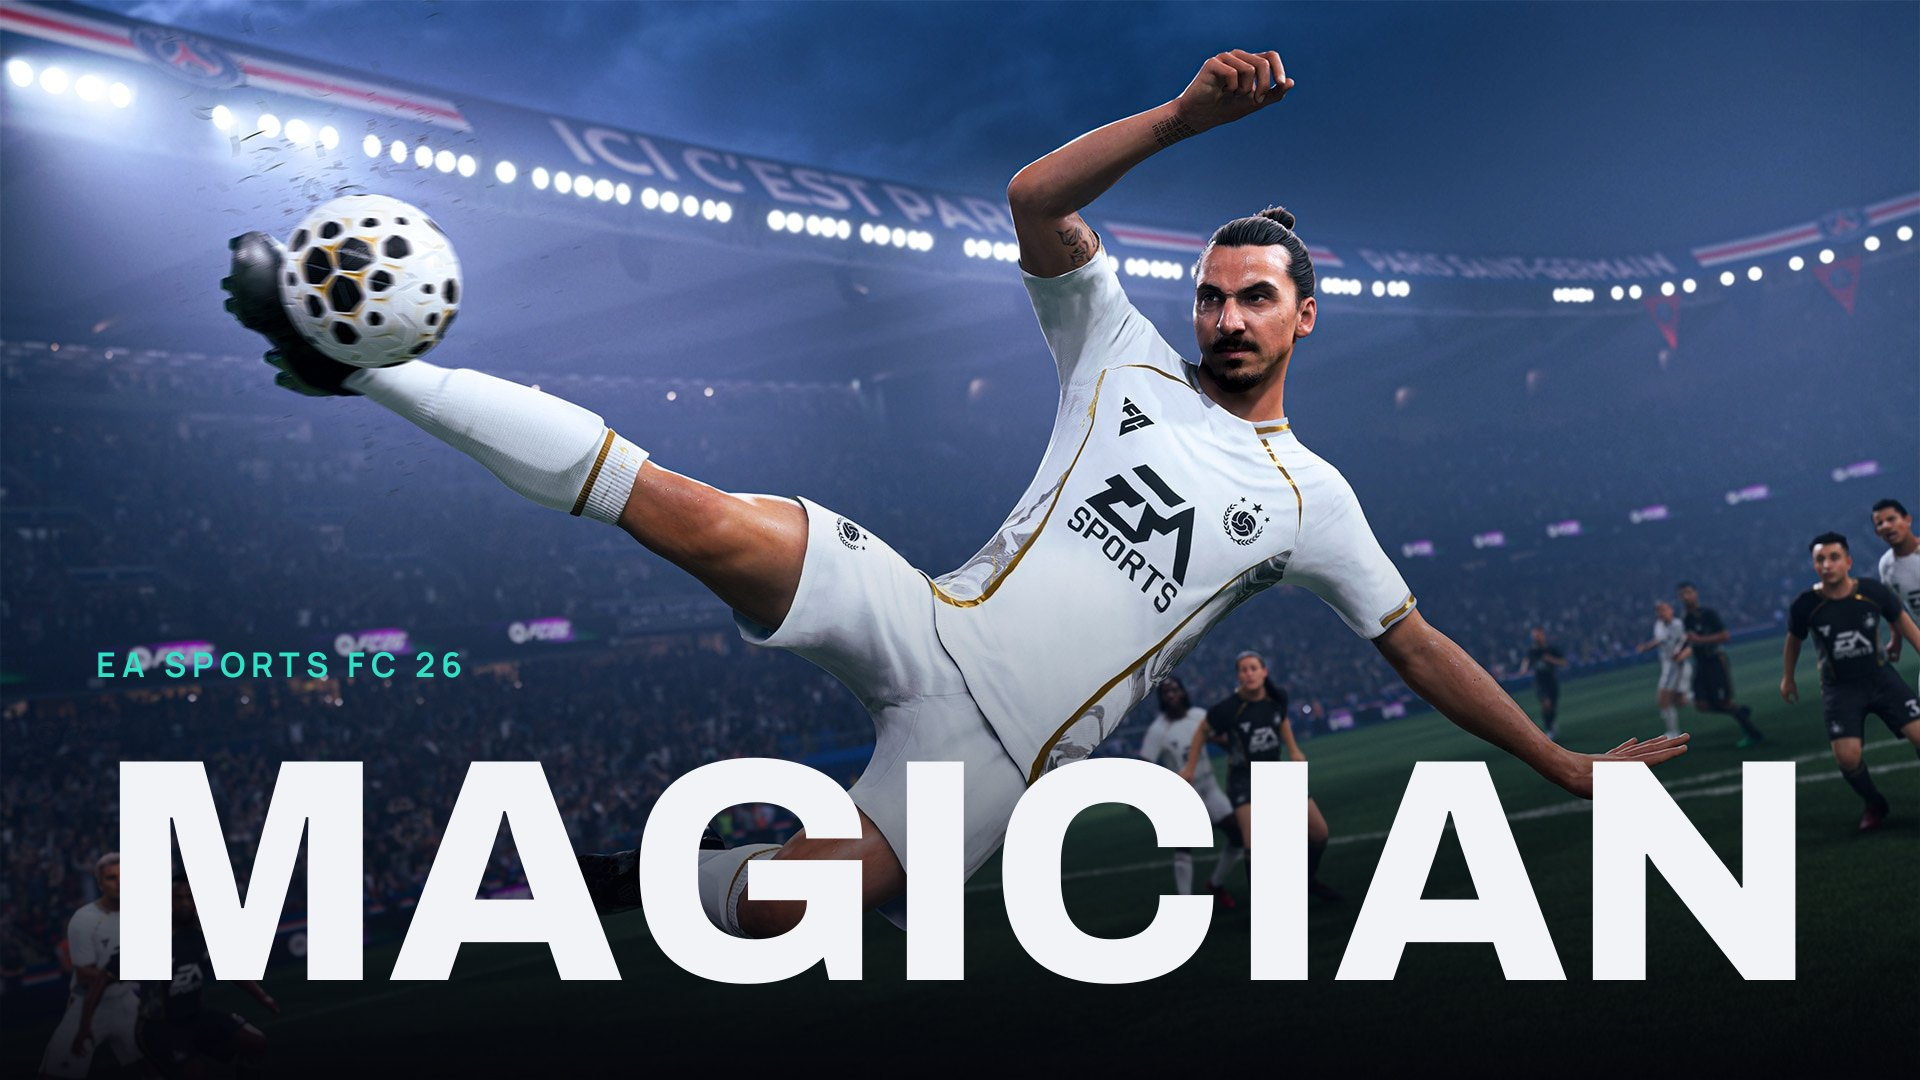
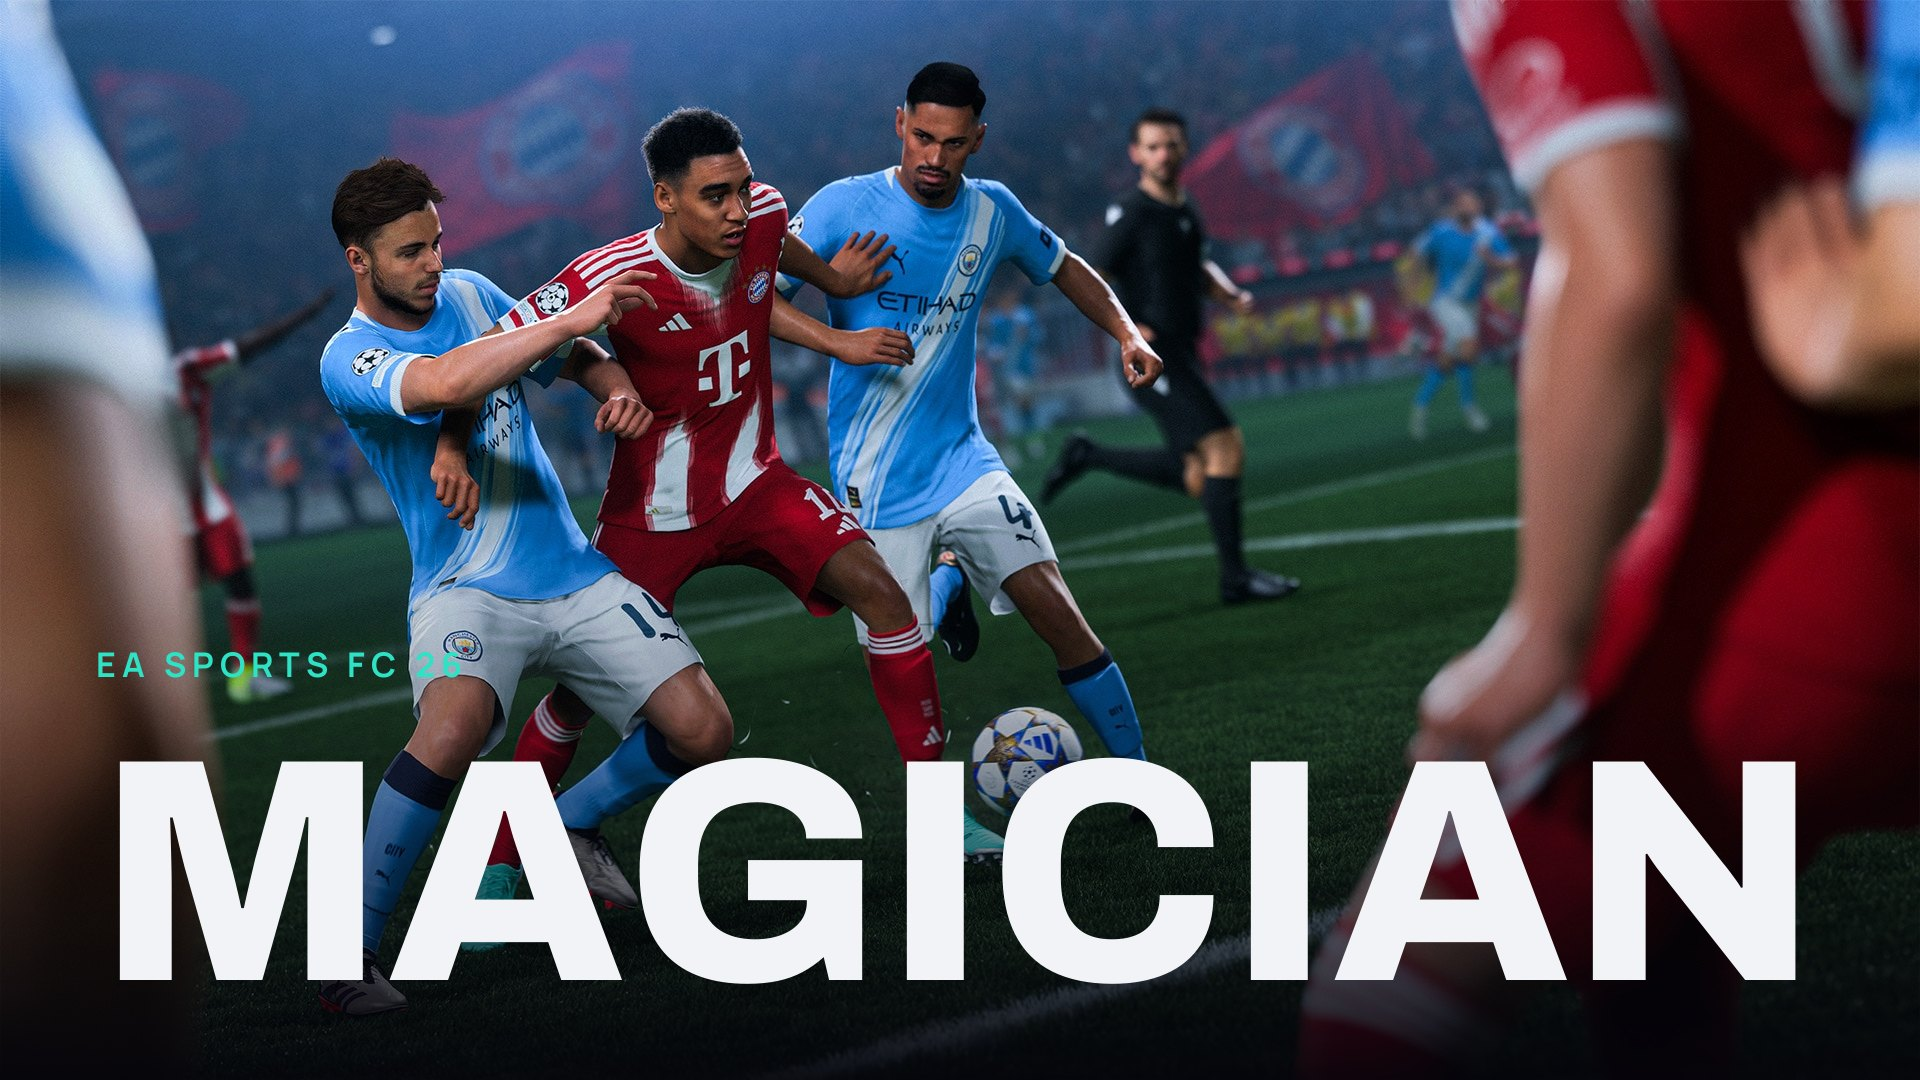
Spokes: per-archetype in-body art, and two art swaps
In-body: every spoke opened with the same shared image — the FC 26 studio key
art — so replacing the feature images left the dated poster as the first
thing inside the article. The theme doesn't render feature images on post
pages, which makes that figure the hero a reader actually sees.

spoke.mjs now points it at the archetype's OWN cover, so the article and its
share preview show the same picture. Regenerated and diffed against the
committed output before republishing: every spoke changed by exactly one
line, the img src and its alt. Nothing else moved.

Two art swaps, both the user's calls after seeing the set:

- magician takes the Musiala still despite being a forward. Musiala carrying
  through three defenders is what a Magician does, and it separates it from
  the other two forwards.
- finisher takes the FC 26 studio key art — the poster this set replaced —
  kept deliberately for one cover, where it reads as contrast rather than as
  the whole series. Its eyebrow is suppressed: that art carries its own EA
  SPORTS FC 26 lockup, so the eyebrow printed the same words twice a few
  centimetres apart. NO_EYEBROW exists for exactly that.

VERSION -v6 -> -v7 and all 13 reassigned, so every cover sits on one version
and the in-body URL can be derived rather than special-cased. spoke.mjs
carries COVER_VERSION with a note to bump both together.

Found while diffing, NOT fixed here: regenerating a2.html turned up "Pro
[…]

diff --git a/out/a2.html b/out/a2.html
@@ -139,7 +139,7 @@
 <div class="meta"><div><h5>Perks</h5><ul><li><strong>6th Sense</strong> — Shoot with back to goal in the attacking third to gain a short boost to Finishing, Balance, and Composure.</li><li><strong>Physical Shooter</strong> — Shield off an opponent, then shoot in the box for a boost to Strength, Shot Power, and Balance.</li></ul></div>
 <div><h5>Specializations</h5><ul><li><strong>Target+</strong> <span style="color:var(--muted);font-size:12px">Zlatan Ibrahimović</span></li><li><strong>Roamer</strong> <span style="color:var(--muted);font-size:12px">Francesco Totti</span></li><li><strong>Runner</strong> <span style="color:var(--muted);font-size:12px">Ronaldo</span></li></ul></div></div>
 </div>
-<p class="foot">Source: Pro Clubs Lobby catalog. Ratings are per-attribute caps averaged across each category.</p>
+<p class="foot">Source: Pro Clubs HQ catalog. Ratings are per-attribute caps averaged across each category.</p>
 <script>
 (function(){var R=document.querySelector('[data-hm27]');if(!R||R.dataset.on)return;R.dataset.on='1';
 var tip=document.createElement('div');tip.className='tip';R.appendChild(tip);

diff --git a/out/a20.html b/out/a20.html
@@ -372,7 +372,7 @@
 <figure class="a20c">
 <style>.a20c{margin:0 0 1.6em}.a20c img{width:100%;height:auto;border-radius:12px;display:block}
 .a20c figcaption{margin-top:8px;font-size:12.5px;color:#898781;font-family:system-ui,-apple-system,"Segoe UI",sans-serif}</style>
-<img src="https://proclubshq.com/blog/content/images/size/w1200/2026/08/feat-spokes.jpg" alt="Official EA SPORTS FC 26 cover art" loading="lazy" width="1200" height="675">
+<img src="https://proclubshq.com/blog/content/images/size/w1200/2026/08/feat-spoke-sweeper-keeper-v7.jpg" alt="Official EA SPORTS FC 26 art for the SWEEPER KEEPER archetype" loading="lazy" width="1200" height="675">
 <figcaption>EA SPORTS FC 26 — the game these builds live in.</figcaption>
 </figure>
 <!--kg-card-end: html-->

diff --git a/out/a19.html b/out/a19.html
@@ -372,7 +372,7 @@
 <figure class="a19c">
 <style>.a19c{margin:0 0 1.6em}.a19c img{width:100%;height:auto;border-radius:12px;display:block}
 .a19c figcaption{margin-top:8px;font-size:12.5px;color:#898781;font-family:system-ui,-apple-system,"Segoe UI",sans-serif}</style>
-<img src="https://proclubshq.com/blog/content/images/size/w1200/2026/08/feat-spokes.jpg" alt="Official EA SPORTS FC 26 cover art" loading="lazy" width="1200" height="675">
+<img src="https://proclubshq.com/blog/content/images/size/w1200/2026/08/feat-spoke-shot-stopper-v7.jpg" alt="Official EA SPORTS FC 26 art for the SHOT STOPPER archetype" loading="lazy" width="1200" height="675">
 <figcaption>EA SPORTS FC 26 — the game these builds live in.</figcaption>
 </figure>
 <!--kg-card-end: html-->

diff --git a/out/a21.html b/out/a21.html
@@ -372,7 +372,7 @@
 <figure class="a21c">
 <style>.a21c{margin:0 0 1.6em}.a21c img{width:100%;height:auto;border-radius:12px;display:block}
 .a21c figcaption{margin-top:8px;font-size:12.5px;color:#898781;font-family:system-ui,-apple-system,"Segoe UI",sans-serif}</style>
-<img src="https://proclubshq.com/blog/content/images/size/w1200/2026/08/feat-spokes.jpg" alt="Official EA SPORTS FC 26 cover art" loading="lazy" width="1200" height="675">
+<img src="https://proclubshq.com/blog/content/images/size/w1200/2026/08/feat-spoke-progressor-v7.jpg" alt="Official EA SPORTS FC 26 art for the PROGRESSOR archetype" loading="lazy" width="1200" height="675">
 <figcaption>EA SPORTS FC 26 — the game these builds live in.</figcaption>
 </figure>
 <!--kg-card-end: html-->

diff --git a/out/a18.html b/out/a18.html
@@ -372,7 +372,7 @@
 <figure class="a18c">
 <style>.a18c{margin:0 0 1.6em}.a18c img{width:100%;height:auto;border-radius:12px;display:block}
 .a18c figcaption{margin-top:8px;font-size:12.5px;color:#898781;font-family:system-ui,-apple-system,"Segoe UI",sans-serif}</style>
-<img src="https://proclubshq.com/blog/content/images/size/w1200/2026/08/feat-spokes.jpg" alt="Official EA SPORTS FC 26 cover art" loading="lazy" width="1200" height="675">
+<img src="https://proclubshq.com/blog/content/images/size/w1200/2026/08/feat-spoke-magician-v7.jpg" alt="Official EA SPORTS FC 26 art for the MAGICIAN archetype" loading="lazy" width="1200" height="675">
 <figcaption>EA SPORTS FC 26 — the game these builds live in.</figcaption>
 </figure>
 <!--kg-card-end: html-->

diff --git a/out/a24.html b/out/a24.html
@@ -372,7 +372,7 @@
 <figure class="a24c">
 <style>.a24c{margin:0 0 1.6em}.a24c img{width:100%;height:auto;border-radius:12px;display:block}
 .a24c figcaption{margin-top:8px;font-size:12.5px;color:#898781;font-family:system-ui,-apple-system,"Segoe UI",sans-serif}</style>
-<img src="https://proclubshq.com/blog/content/images/size/w1200/2026/08/feat-spokes.jpg" alt="Official EA SPORTS FC 26 cover art" loading="lazy" width="1200" height="675">
+<img src="https://proclubshq.com/blog/content/images/size/w1200/2026/08/feat-spoke-marauder-v7.jpg" alt="Official EA SPORTS FC 26 art for the MARAUDER archetype" loading="lazy" width="1200" height="675">
 <figcaption>EA SPORTS FC 26 — the game these builds live in.</figcaption>
 </figure>
 <!--kg-card-end: html-->

diff --git a/out/a25.html b/out/a25.html
@@ -372,7 +372,7 @@
 <figure class="a25c">
 <style>.a25c{margin:0 0 1.6em}.a25c img{width:100%;height:auto;border-radius:12px;display:block}
 .a25c figcaption{margin-top:8px;font-size:12.5px;color:#898781;font-family:system-ui,-apple-system,"Segoe UI",sans-serif}</style>
-<img src="https://proclubshq.com/blog/content/images/size/w1200/2026/08/feat-spokes.jpg" alt="Official EA SPORTS FC 26 cover art" loading="lazy" width="1200" height="675">
+<img src="https://proclubshq.com/blog/content/images/size/w1200/2026/08/feat-spoke-recycler-v7.jpg" alt="Official EA SPORTS FC 26 art for the RECYCLER archetype" loading="lazy" width="1200" height="675">
 <figcaption>EA SPORTS FC 26 — the game these builds live in.</figcaption>
 </figure>
 <!--kg-card-end: html-->

diff --git a/out/a29.html b/out/a29.html
@@ -372,7 +372,7 @@
 <figure class="a29c">
 <style>.a29c{margin:0 0 1.6em}.a29c img{width:100%;height:auto;border-radius:12px;display:block}
 .a29c figcaption{margin-top:8px;font-size:12.5px;color:#898781;font-family:system-ui,-apple-system,"Segoe UI",sans-serif}</style>
-<img src="https://proclubshq.com/blog/content/images/size/w1200/2026/08/feat-spokes.jpg" alt="Official EA SPORTS FC 26 cover art" loading="lazy" width="1200" height="675">
+<img src="https://proclubshq.com/blog/content/images/size/w1200/2026/08/feat-spoke-finisher-v7.jpg" alt="Official EA SPORTS FC 26 art for the FINISHER archetype" loading="lazy" width="1200" height="675">
 <figcaption>EA SPORTS FC 26 — the game these builds live in.</figcaption>
 </figure>
 <!--kg-card-end: html-->

diff --git a/out/a26.html b/out/a26.html
@@ -372,7 +372,7 @@
 <figure class="a26c">
 <style>.a26c{margin:0 0 1.6em}.a26c img{width:100%;height:auto;border-radius:12px;display:block}
 .a26c figcaption{margin-top:8px;font-size:12.5px;color:#898781;font-family:system-ui,-apple-system,"Segoe UI",sans-serif}</style>
-<img src="https://proclubshq.com/blog/content/images/size/w1200/2026/08/feat-spokes.jpg" alt="Official EA SPORTS FC 26 cover art" loading="lazy" width="1200" height="675">
+<img src="https://proclubshq.com/blog/content/images/size/w1200/2026/08/feat-spoke-maestro-v7.jpg" alt="Official EA SPORTS FC 26 art for the MAESTRO archetype" loading="lazy" width="1200" height="675">
 <figcaption>EA SPORTS FC 26 — the game these builds live in.</figcaption>
 </figure>
 <!--kg-card-end: html-->

diff --git a/out/a27.html b/out/a27.html
@@ -372,7 +372,7 @@
 <figure class="a27c">
 <style>.a27c{margin:0 0 1.6em}.a27c img{width:100%;height:auto;border-radius:12px;display:block}
 .a27c figcaption{margin-top:8px;font-size:12.5px;color:#898781;font-family:system-ui,-apple-system,"Segoe UI",sans-serif}</style>
-<img src="https://proclubshq.com/blog/content/images/size/w1200/2026/08/feat-spokes.jpg" alt="Official EA SPORTS FC 26 cover art" loading="lazy" width="1200" height="675">
+<img src="https://proclubshq.com/blog/content/images/size/w1200/2026/08/feat-spoke-creator-v7.jpg" alt="Official EA SPORTS FC 26 art for the CREATOR archetype" loading="lazy" width="1200" height="675">
 <figcaption>EA SPORTS FC 26 — the game these builds live in.</figcaption>
 </figure>
 <!--kg-card-end: html-->

diff --git a/out/a23.html b/out/a23.html
@@ -372,7 +372,7 @@
 <figure class="a23c">
 <style>.a23c{margin:0 0 1.6em}.a23c img{width:100%;height:auto;border-radius:12px;display:block}
 .a23c figcaption{margin-top:8px;font-size:12.5px;color:#898781;font-family:system-ui,-apple-system,"Segoe UI",sans-serif}</style>
-<img src="https://proclubshq.com/blog/content/images/size/w1200/2026/08/feat-spokes.jpg" alt="Official EA SPORTS FC 26 cover art" loading="lazy" width="1200" height="675">
+<img src="https://proclubshq.com/blog/content/images/size/w1200/2026/08/feat-spoke-engine-v7.jpg" alt="Official EA SPORTS FC 26 art for the ENGINE archetype" loading="lazy" width="1200" height="675">
 <figcaption>EA SPORTS FC 26 — the game these builds live in.</figcaption>
 </figure>
 <!--kg-card-end: html-->

diff --git a/out/a30.html b/out/a30.html
@@ -372,7 +372,7 @@
 <figure class="a30c">
 <style>.a30c{margin:0 0 1.6em}.a30c img{width:100%;height:auto;border-radius:12px;display:block}
 .a30c figcaption{margin-top:8px;font-size:12.5px;color:#898781;font-family:system-ui,-apple-system,"Segoe UI",sans-serif}</style>
-<img src="https://proclubshq.com/blog/content/images/size/w1200/2026/08/feat-spokes.jpg" alt="Official EA SPORTS FC 26 cover art" loading="lazy" width="1200" height="675">
+<img src="https://proclubshq.com/blog/content/images/size/w1200/2026/08/feat-spoke-target-v7.jpg" alt="Official EA SPORTS FC 26 art for the TARGET archetype" loading="lazy" width="1200" height="675">
 <figcaption>EA SPORTS FC 26 — the game these builds live in.</figcaption>
 </figure>
 <!--kg-card-end: html-->
